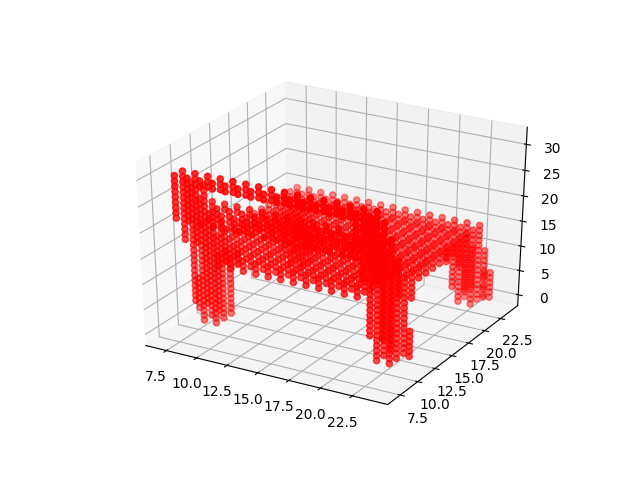
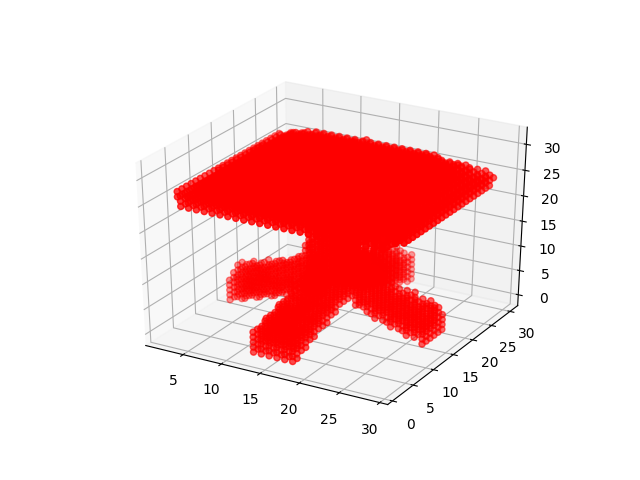
output and loss plot updated

diff --git a/test_autoencoder.py b/test_autoencoder.py
@@ -15,7 +15,7 @@ epoch_num = 100  # Number of epochs to train the network
 lr = 0.001  # Learning rate
 OUTPUT_SIZE = 32 # size of the output volume produced by decoder
 INPUT_SIZE = 32 # size of the input volume given to the encoder
-total_input = 50 # total input volume
+total_input = 100 # total input volume
 
 def interpolationBetnLatentSpace(z1, z2):
     mx = 100
@@ -42,7 +42,7 @@ def resize_batch(imgs):
 
 def loadfile():
     input_file = np.array([])
-    for i in range(21, 71):
+    for i in range(1, (total_input+1)):
         v = np.loadtxt('/home/gigl/Research/simple_autoencoder/Volume of shapes/MyTestFile' + str(i) + '.txt')
         image_matrix = np.reshape(v, (32, 32, 32)).astype(np.float32)
         ax_z, ax_x, ax_y = image_matrix.nonzero()
@@ -53,8 +53,8 @@ def loadfile():
         plt.close()
         input_file = np.append(input_file, image_matrix)
 
-    input_file = np.reshape(input_file, (50, 32 * 32 * 32))
-    print("This is the shape of input for 50 shape", input_file.shape)
+    input_file = np.reshape(input_file, (total_input, 32 * 32 * 32)).astype(np.float32)
+    print("This is the shape of input for 100 shape", input_file.shape)
     return input_file
 
 
@@ -86,10 +86,10 @@ def next_batch(next_batch_array, batchsize, offset):
 
 
 # --------------------read data set----------------------
-input_file = loadfile()  # load 50 chairs as volume with shape [50,32768]
+input_file = loadfile()  # load 100 chairs as volume with shape [100,32768]
 
 # ----------------- calculate the number of batches per epoch --------------------
-batch_per_ep = input_file.shape[0] // batch_size  # batch per epoch will be 5 [input total = 50 divided by batch-size = 10 ]
+batch_per_ep = input_file.shape[0] // batch_size  # batch per epoch will be 10 [input total = 100 divided by batch-size = 10 ]
 
 ae_inputs = tf.placeholder(tf.float32, (None, 32, 32, 32, 1))  # input to the network (MNIST images)
 
@@ -116,11 +116,8 @@ with tf.Session() as sess:
 
     # --------------------plot loss -------------------------------------
 
-    plot_loss = plot_loss[1:, 0:]
-    print("This is plot_loss X and Y ", plot_loss[:, 0], plot_loss[:, 1])
-    loss_fig = plt.figure()
-    ax = loss_fig.add_subplot(111, projection='3d')
-    ax.plot(plot_loss[:, 0], plot_loss[:, 1], c='blue')
+    plot_loss = plot_loss[1:, 0:] # to eliminate first row as it represents 0 epoch and 0 loss
+    plt.plot(plot_loss[:, 0], plot_loss[:, 1], c='blue')
     plt.savefig('output_data/test_loss.png')
     plt.close()
 
@@ -129,13 +126,13 @@ with tf.Session() as sess:
     # batch_img = next_batch(input_file,1,0)
 
     # Test for the first input volume shape
-    batch_img = input_file[0, :]
+    batch_img = input_file[1, :]
     batch_img = resize_batch(batch_img)
     recon_img = sess.run([l_space, ae_outputs], feed_dict={ae_inputs: batch_img})[1]
     l_space1 = sess.run([l_space, ae_outputs], feed_dict={ae_inputs: batch_img})[0]
     print("This is output shape of the decoder", recon_img.shape)
     out = np.reshape(recon_img, (OUTPUT_SIZE, OUTPUT_SIZE, OUTPUT_SIZE)).astype(np.float32)
-    avg_of_test_image = out.min()
+    #avg_of_test_image = out.min()
     print("this is the shape of output volume", out.shape)
 
     # ----------------print the first line of the output shape ------------------------------
@@ -147,24 +144,13 @@ with tf.Session() as sess:
     # --------------------------plot the reconstructed images and their ground truths (inputs)----------------------
 
     # ------------------------Test method 1--------------------------------------------
-    test_first_input = input_file[0, :]
+    test_first_input = input_file[1, :]
     test_first_input = np.reshape(test_first_input, (OUTPUT_SIZE, OUTPUT_SIZE, OUTPUT_SIZE)).astype(np.float32)
     z, x, y = test_first_input.nonzero()
     fig = plt.figure()
     ax = fig.add_subplot(111, projection='3d')
     ax.scatter(x, y, z, zdir='z', c='red')
-    plt.savefig('output_data/demo_testMethod1.png')
-    plt.close()
-
-    # -----------------------------test method 2----------------------------------------
-
-    fig = plt.figure()
-    ax = fig.add_subplot(111, projection='3d')
-    xdata = out[0, :, :]
-    ydata = out[:, 1, :]
-    zdata = out[:, :, 2]
-    ax.scatter3D(xdata, ydata, zdata, zdir='z', c='red')
-    plt.savefig('output_data/demo_testMethod2.png')
+    plt.savefig('output_data/demo_testMethod1_second.png')
     plt.close()
 
     # ------------------------------test method 3-----------------------------------------
@@ -172,7 +158,7 @@ with tf.Session() as sess:
     for i in range(0, OUTPUT_SIZE):
         for j in range(0, OUTPUT_SIZE):
             for k in range(0, OUTPUT_SIZE):
-                if out[i, j, k] > 0.0001:
+                if out[i, j, k] > 0.5:
                     plotOutArr = np.append(plotOutArr, 1)
                 else:
                     plotOutArr = np.append(plotOutArr, 0)
@@ -182,16 +168,7 @@ with tf.Session() as sess:
     fig = plt.figure()
     ax = fig.add_subplot(111, projection='3d')
     ax.scatter(x, y, z, zdir='z', c='red')
-    plt.savefig('output_data/demo_testMethod3.png')
-    plt.close()
-
-    # ------------------------------test method 4-----------------------------------------
-
-    z, x, y = out.nonzero()
-    fig = plt.figure()
-    ax = fig.add_subplot(111, projection='3d')
-    ax.scatter(x, y, z, zdir='z', c='red')
-    plt.savefig('output_data/demo_testMethod4.png')
+    plt.savefig('output_data/demo_testMethod3_second.png')
     plt.close()
 
 
